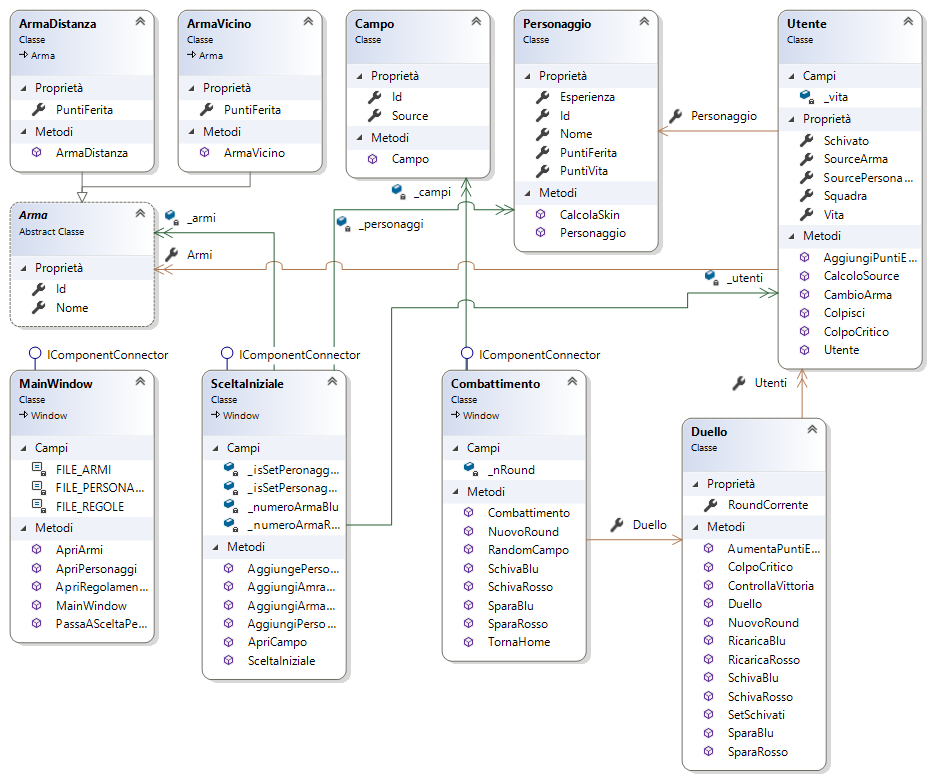
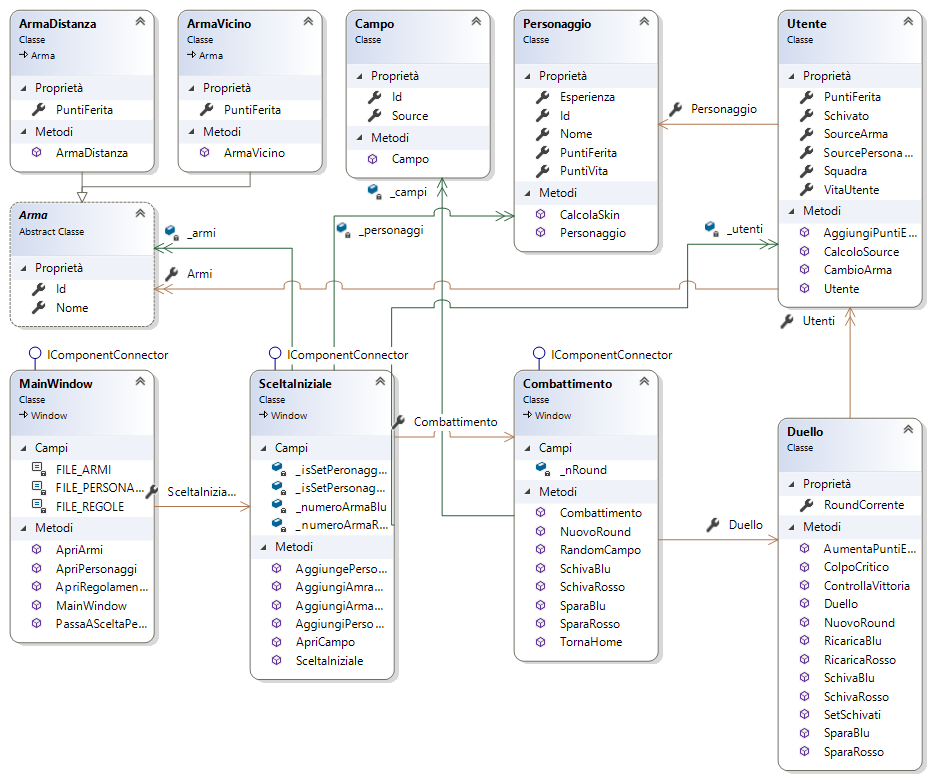
Inizio implementazione delle classi

diff --git a/Videogioco/Utente.cs b/Videogioco/Utente.cs
@@ -29,18 +29,6 @@ namespace Videogioco
             set;
         }
 
-        private int _vita;
-        public int Vita
-        {
-            get => _vita;
-            set
-            {
-                if (value < 0)
-                    throw new Exception("La vita non può essere negativa");
-                _vita = value;
-            }
-        }
-
         public Queue<Arma> Armi
         {
             get;
@@ -71,22 +59,28 @@ namespace Videogioco
             }
         }
 
+        public int VitaUtente
+        {
+            get => default;
+            set
+            {
+            }
+        }
+
+        public int PuntiFerita
+        {
+            get => default;
+            set
+            {
+            }
+        }
+
         public void AggiungiPuntiEsperienza()
         {
             throw new System.NotImplementedException();
         }
 
         public void CambioArma()
-        {
-            throw new System.NotImplementedException();
-        }
-
-        public void ColpoCritico(int danno)
-        {
-            throw new System.NotImplementedException();
-        }
-
-        public void Colpisci()
         {
             throw new System.NotImplementedException();
         }

diff --git a/Videogioco/MainWindow.xaml.cs b/Videogioco/MainWindow.xaml.cs
@@ -25,6 +25,14 @@ namespace Videogioco
             InitializeComponent();
         }
 
+        public SceltaIniziale SceltaIniziale
+        {
+            get => default;
+            set
+            {
+            }
+        }
+
         private const string FILE_REGOLE = "";
         private const string FILE_PERSONAGGI = "";
         private const string FILE_ARMI = " ";

diff --git a/Videogioco/SceltaIniziale.xaml.cs b/Videogioco/SceltaIniziale.xaml.cs
@@ -32,6 +32,14 @@ namespace Videogioco
             InitializeComponent();
         }
 
+        public Combattimento Combattimento
+        {
+            get => default;
+            set
+            {
+            }
+        }
+
         public void ApriCampo()
         {
             throw new System.NotImplementedException();
